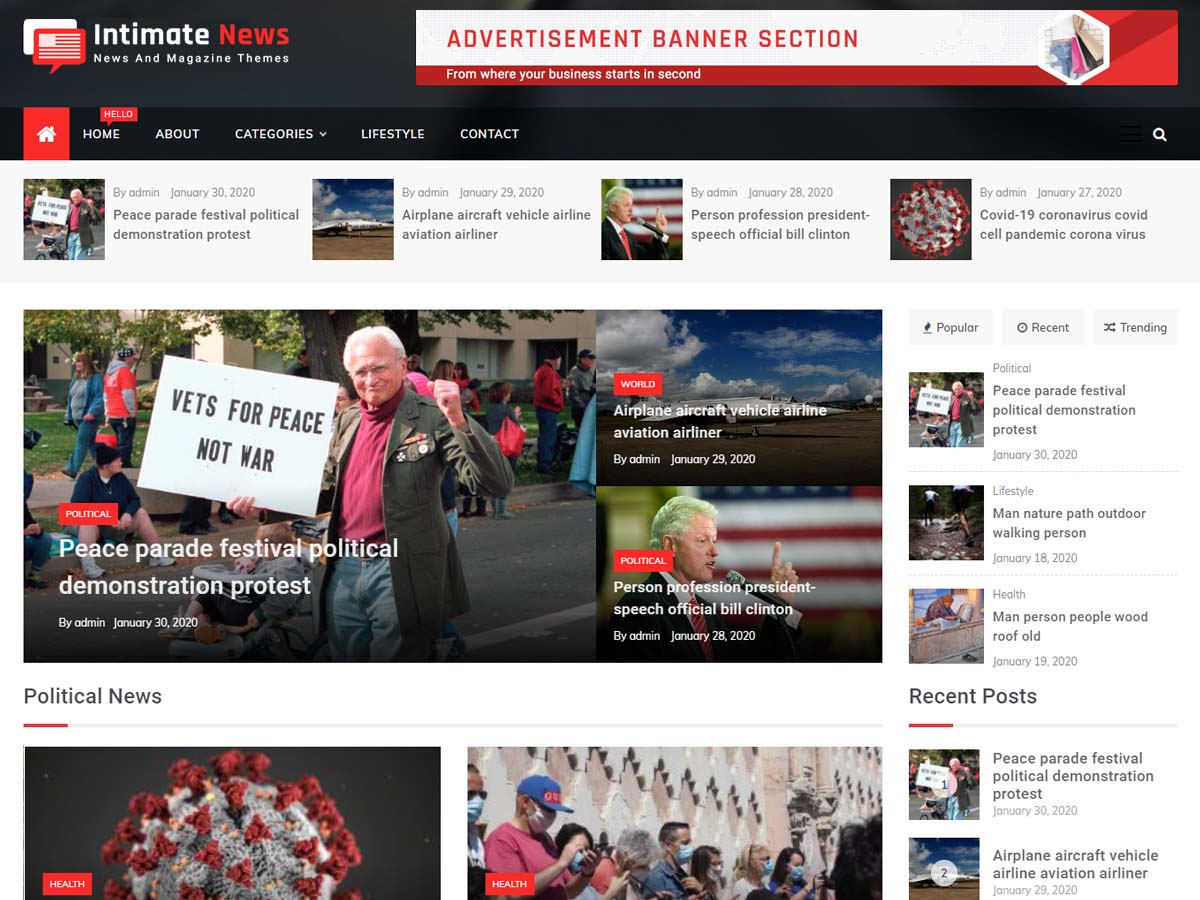
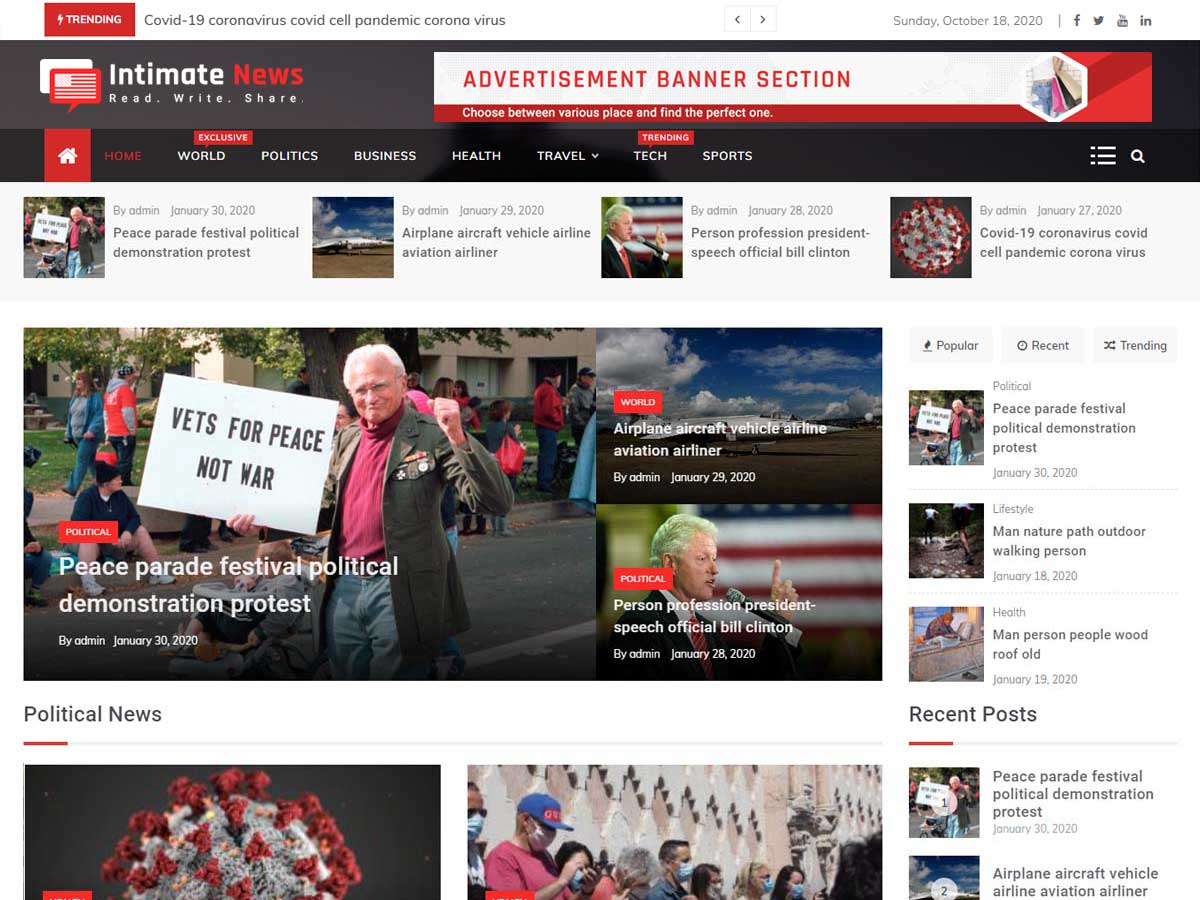
navigation fixed

diff --git a/style.css b/style.css
@@ -39,7 +39,6 @@ body {
     font-weight: normal;
     line-height: 1.5;
     color: #4c4f53;
-    position: relative;
     text-rendering: optimizelegibility;
     -moz-osx-font-smoothing: grayscale;
     -webkit-font-smoothing: antialiased;
@@ -7958,7 +7957,7 @@ div#intimate-breadcrumbs {
     background: #fff !important;
     font-size: 20px;
     text-align: center;
-    top: 20px;
+    top: 46px;
     right: 320px;
     left: auto;
     z-index: 9999;

diff --git a/front-page.php b/front-page.php
@@ -14,7 +14,7 @@
 
 get_header();
 ?>
-    <section id="content" class="site-content">
+<section id="content" class="site-content">
     <div class="container-fluid">
         <div class="row">
             <div id="primary" class="col-lg-9 col-md-7 col-sm-12 content-area">
@@ -29,7 +29,7 @@ get_header();
                 do_action('intimate_action_front_page');
                 ?>
             </main><!-- #main -->
-        </div><!-- #primary -->
+            </div><!-- #primary -->
 
         <aside id="secondary" class="col-lg-3 col-md-5 col-sm-12 widget-area side-right">
             <?php get_sidebar(); ?>

diff --git a/templatesell/dynamic-css.php b/templatesell/dynamic-css.php
@@ -68,9 +68,6 @@ if (!function_exists('intimate_dynamic_css')) :
             a:hover,
             .post__grid .cat-links a,
             .card__post__author-info .cat-links a,
-            .main-header a:hover, 
-            .main-header a:focus, 
-            .main-header a:active,
             .post-cats > span i, 
             .post-cats > span a,
             .top-menu > ul > li > a:hover,
